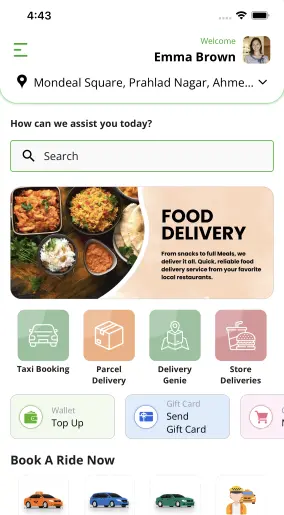
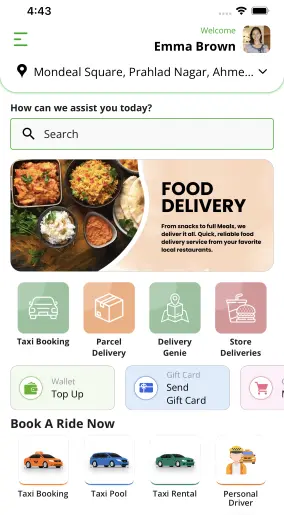
home page image
home page image

diff --git a/css/homepage.css b/css/homepage.css
@@ -547,7 +547,9 @@ ul.page_listview_area.sidebyside_list {
   z-index: -1;
 }
 .hero-right {
-  margin-top: -137px;
+   position: relative;
+  top: -137px;
+  margin-bottom: -137px;   /* collapse the gap it would otherwise leave */
 }
 /* ── Main Section ── */
 .stats-section {
@@ -556,6 +558,7 @@ ul.page_listview_area.sidebyside_list {
   align-items: flex-end;
   width: 100%;
   max-width: 1280px;
+  min-height: 588px;
 }
 /* ── Column Base ── */
 .col {
@@ -573,6 +576,7 @@ ul.page_listview_area.sidebyside_list {
   flex-shrink: 0;
   width: 100%;
 }
+/* remove the fixed heights from .photo-wrap entirely */
 .photo-wrap img {
   width: 100%;
   height: 100%;
@@ -2234,6 +2238,10 @@ ul.features-row li .features-title-area {
   border-radius: 12px;
   padding: 20px;
   transition: transform 0.3s ease, box-shadow 0.3s ease;
+  display: flex;
+  flex-direction: column;
+  justify-content: space-between;
+
 }
 .ai-feature-card:hover {
   transform: translateY(-5px);
@@ -2642,10 +2650,14 @@ overflow: hidden;
     padding: 10px;
   }
   .hero-right {
-    margin-top: -117px;
+    top: -117px;
+    margin-bottom: -117px;
   }
   .stat-number em, .stat-number-green em {
     font-size: 31px;
+}
+.stats-section {
+    min-height: initial;
 }
   /* __________________________________________________ */
   .main-title {
@@ -2834,7 +2846,8 @@ overflow: hidden;
     -o-border-radius: 10px;
   }
   .hero-right {
-    margin-top: -17px;
+    top: -17px;
+    margin-bottom: -17px;
   }
   .stat-number em, .stat-number-green em {
     font-size: 19px;
@@ -3045,6 +3058,8 @@ overflow: hidden;
     padding-bottom: 10px;
 }
 .hero-right {
+    margin: 0;
+    top: 0;
     margin-top: 20px;
 }
 .col-2 .stat-card,
@@ -3111,6 +3126,13 @@ overflow: hidden;
   }
   .service-title.have_aipowered {
     display: inline-block;
+}
+.service-title.have_aipowered img{
+  transform: translateY(5px);
+  -webkit-transform: translateY(5px);
+  -moz-transform: translateY(5px);
+  -ms-transform: translateY(5px);
+  -o-transform: translateY(5px);
 }
   /* ____________________________________________________ */
   .ai-uber-glow {
